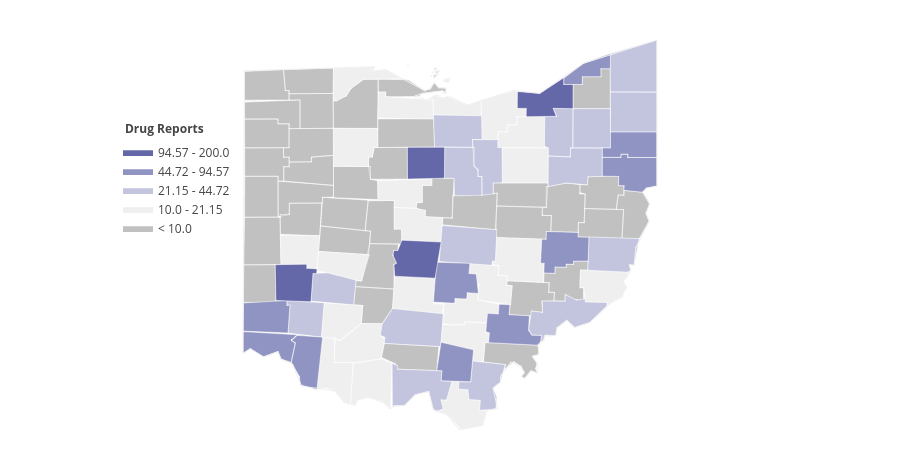
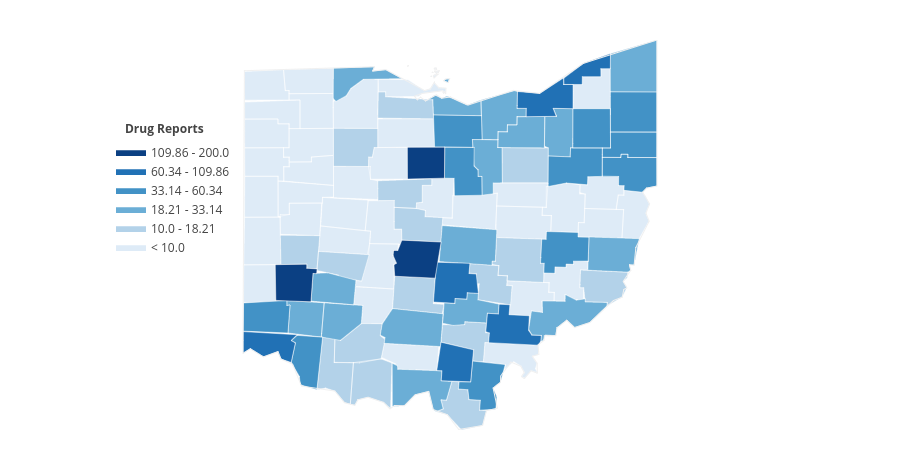
modify fig

Changed region(s): [[0.1244, 0.0933, 0.7467, 0.9644]]

diff --git a/src/bpnn_plot.py b/src/bpnn_plot.py
@@ -8,32 +8,25 @@ plotly.tools.set_credentials_file(username='tc-imba', api_key='xNu6lsfY6Twz6LfUm
 
 fips_dict = dict()
 
-state = 'OH'
-substance_name = 'Buprenorphine'
+# state = 'OH'
+# substance_name = 'Buprenorphine'
+state = 'KY'
+substance_name = 'Hydrocodone'
 df = pd.read_csv('../result/bpnn_source_%s_%s.csv' % (state, substance_name))
 
-colorscale = ["#f7fbff", "#deebf7", "#c6dbef", "#9ecae1",
-              "#6baed6", "#4292c6", "#2171b5", "#08519c", ]
-
-colorscale = [
-    'rgb(193, 193, 193)',
-    'rgb(239,239,239)',
-    'rgb(195, 196, 222)',
-    'rgb(144,148,194)',
-    'rgb(101,104,168)',
-    'rgb(65, 53, 132)'
-]
+colorscale = ["#deebf7", "#b3d2e9", "#6baed6", "#4292c6",
+              "#2171b5", "#0b4083", "#08306b"]
 
 for i in range(5):
 
     for index, row in df.iterrows():
-        # fips_dict[row[0]] = row[i + 1 + 4]
-        fips_dict[row[0]] = row[10 - i]
+        fips_dict[row[0]] = row[i + 1 + 4]
+        # fips_dict[row[0]] = row[10 - i]
 
     fips = list(fips_dict.keys())
     values = list(fips_dict.values())
 
-    endpts = list(np.geomspace(10, 200, 5))
+    endpts = list(np.geomspace(10, 200, 6))
 
     fig = plotly.figure_factory.create_choropleth(
         fips=fips, values=values,

diff --git a/src/bpnn_new.py b/src/bpnn_new.py
@@ -93,8 +93,10 @@ def get_distance(a, b):
     return df_distance[str(a)].loc[int(b)]
 
 
-state = 'OH'
-substance_name = 'Buprenorphine'
+# state = 'OH'
+# substance_name = 'Buprenorphine'
+state = 'KY'
+substance_name = 'Hydrocodone'
 df_county = df[df['State'] == state].groupby('FIPS_Combined').first()
 df = df[(df['State'] == state) & (df['SubstanceName'] == substance_name)].reset_index()
 
@@ -121,8 +123,8 @@ for _i, county_i in county_list.items():
 
 for index, row in df.iterrows():
     fips = row['FIPS_Combined']
-    year = row['YYYY'] - start_year
-    # year = start_year - 1 + total_years - row['YYYY']
+    # year = row['YYYY'] - start_year
+    year = start_year - 1 + total_years - row['YYYY']
     data = row['DrugReports']
     county_list[fips].set_train_data_drug(year, data)
 
@@ -130,8 +132,8 @@ for index, row in df_pca.iterrows():
     fips = row['FIPS']
     if fips not in county_list:
         continue
-    year = row['YYYY'] - start_year
-    # year = start_year - 1 + total_years - row['YYYY']
+    # year = row['YYYY'] - start_year
+    year = start_year - 1 + total_years - row['YYYY']
     data = [row['D%d' % i] for i in range(1, 5)]
     county_list[fips].set_train_data_pca(year, data)
 

diff --git a/src/bpnn_plot_stack.py b/src/bpnn_plot_stack.py
@@ -4,9 +4,10 @@ import numpy as np
 from mayavi import mlab
 from tvtk.api import tvtk
 
-state = 'OH'
-substance_name = 'Buprenorphine'
-fig_start = 6
+# state = 'OH'
+# substance_name = 'Buprenorphine'
+state = 'KY'
+substance_name = 'Hydrocodone'
 
 
 def draw_layer(path, position):
@@ -19,7 +20,7 @@ def draw_layer(path, position):
     m_image = mlab.imshow(
         np.ones(im.shape[:2]),
         extent=[0, 0, 0, 0, position, position],
-        opacity=0.4)
+        opacity=0.6)
 
     m_image.actor.input.point_data.scalars = colors
 
@@ -28,7 +29,7 @@ if __name__ == "__main__":
     fig_num = 5
     fig_height = 200 * (fig_num - 1)
 
-    mlab.figure(bgcolor=(0.8, 0.8, 0.8), size=(1000, 1000))
+    mlab.figure(bgcolor=(0.97, 0.97, 0.97), size=(1000, 1000))
 
     for i in range(fig_num):
         draw_layer('../figure/%s_%s_%d.png' % (state, substance_name, i + 1), i * 200)
